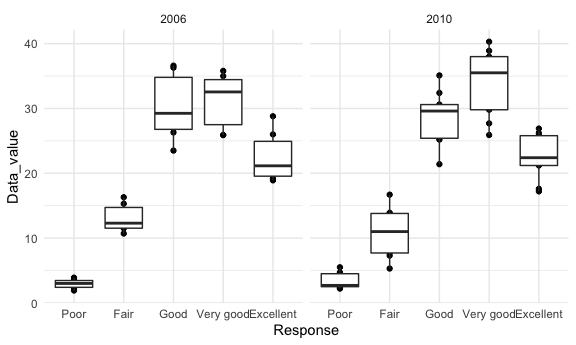
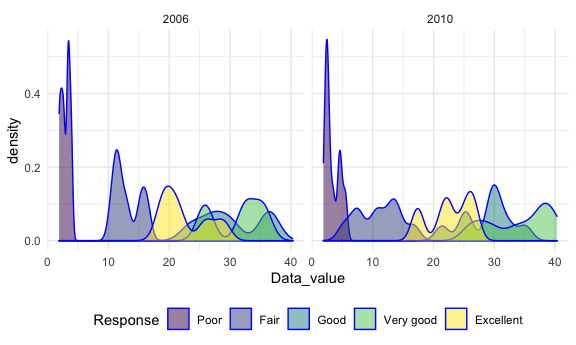
change some plot and comment

diff --git a/p8105_hw3_zh2494.md b/p8105_hw3_zh2494.md
@@ -112,11 +112,22 @@ colnames(instacart)
     ## [10] "days_since_prior_order" "product_name"           "aisle_id"              
     ## [13] "department_id"          "aisle"                  "department"
 
-``` r
-## giving illstrative examples of observations. 
-```
+Description: the dataset include 15 variables and 1,384,617
+observations. the variable are showing below order\_id: order identifier
+product\_id: product identifier add\_to\_cart\_order: order in which
+each product was added to cart reordered: 1 if this prodcut has been
+ordered by this user in the past, 0 otherwise user\_id: customer
+identifier eval\_set: which evaluation set this order belongs in (Note
+that the data for use in this class is exclusively from the “train”
+eval\_set) order\_number: the order sequence number for this user
+(1=first, n=nth) order\_dow: the day of the week on which the order was
+placed order\_hour\_of\_day: the hour of the day on which the order was
+placed days\_since\_prior\_order: days since the last order, capped at
+30, NA if order\_number=1 product\_name: name of the product aisle\_id:
+aisle identifier department\_id: department identifier aisle: the name
+of the aisle department: the name of the department
 
-##### How many aisles are there, and which aisles are the most items ordered from?
+##### 1,How many aisles are there, and which aisles are the most items ordered from?
 
 ``` r
 instacart %>%
@@ -168,18 +179,25 @@ instacart %>%
     aisle = fct_reorder(aisle,n)
   ) %>%  
   ggplot(aes(y = n, x = aisle)) +
-  geom_point() +
+  geom_bar(aes(fill = aisle), stat = "identity") +
   labs(
     title = "aisles with more than 10000 items ordered",
     x = "the number of items",
     y = "the name of the aisle"
   ) +
-  theme(axis.text.x = element_text(angle = 90, vjust = 0.5, hjust = 1))
+  scale_x_discrete(labels = NULL)
 ```
 
 <img src="p8105_hw3_zh2494_files/figure-gfm/unnamed-chunk-5-1.png" width="90%" />
 
-##### Make a table showing the three most popular items in each of the aisles “baking ingredients”, “dog food care”, and “packaged vegetables fruits”. Include the number of times each item is ordered in your table.
+``` r
+  #theme(axis.text.x = element_text(angle = 90, vjust = 0.5, hjust = 1))
+```
+
+*comment : The bar diagram above showed the number of items ordered in
+aisles, which had more than 10000 items ordered.*
+
+##### 3.Make a table showing the three most popular items in each of the aisles “baking ingredients”, “dog food care”, and “packaged vegetables fruits”. Include the number of times each item is ordered in your table.
 
 ``` r
 instacart %>% 
@@ -204,7 +222,7 @@ instacart %>%
 | packaged vegetables fruits | Organic Raspberries                           | 5546 |    2 |
 | packaged vegetables fruits | Organic Blueberries                           | 4966 |    3 |
 
-*comment:the baking ingredients need the most light brown sugar. Dog
+*comment : the baking ingredients need the most light brown sugar. Dog
 food care need Snack Sticks Chicken & Rice Recipe Dog Treats and
 packaged vegetables fruits need the most Organic Baby Spinach.*
 
@@ -219,19 +237,20 @@ instacart %>%
   pivot_wider(
     names_from = order_dow,
     values_from = mean_hour
-  )
+  ) %>% 
+  knitr::kable()
 ```
 
     ## `summarise()` has grouped output by 'product_name'. You can override using the `.groups` argument.
 
-    ## # A tibble: 2 × 8
-    ## # Groups:   product_name [2]
-    ##   product_name     Sunday Monday Tuesday Wednesday Thurday Friday Saturday
-    ##   <chr>             <dbl>  <dbl>   <dbl>     <dbl>   <dbl>  <dbl>    <dbl>
-    ## 1 Coffee Ice Cream   13.8   14.3    15.4      15.3    15.2   12.3     13.8
-    ## 2 Pink Lady Apples   13.4   11.4    11.7      14.2    11.6   12.8     11.9
+| product\_name    |   Sunday |   Monday |  Tuesday | Wednesday |  Thurday |   Friday | Saturday |
+|:-----------------|---------:|---------:|---------:|----------:|---------:|---------:|---------:|
+| Coffee Ice Cream | 13.77419 | 14.31579 | 15.38095 |  15.31818 | 15.21739 | 12.26316 | 13.83333 |
+| Pink Lady Apples | 13.44118 | 11.36000 | 11.70213 |  14.25000 | 11.55172 | 12.78431 | 11.93750 |
 
 # Problem 2
+
+Load the dataset
 
 ``` r
 data("brfss_smart2010")
@@ -245,7 +264,28 @@ Brfss =
   mutate(
     Response = forcats::fct_relevel(Response,c("Poor","Fair","Good","Very good","Excellent")),
     Response = as.factor(Response))
+Brfss
 ```
+
+    ## # A tibble: 10,625 × 23
+    ##     Year Locationabbr Locationdesc  Class  Topic  Question  Response Sample_Size
+    ##    <int> <chr>        <chr>         <chr>  <chr>  <chr>     <fct>          <int>
+    ##  1  2010 AL           AL - Jeffers… Healt… Overa… How is y… Excelle…          94
+    ##  2  2010 AL           AL - Jeffers… Healt… Overa… How is y… Very go…         148
+    ##  3  2010 AL           AL - Jeffers… Healt… Overa… How is y… Good             208
+    ##  4  2010 AL           AL - Jeffers… Healt… Overa… How is y… Fair             107
+    ##  5  2010 AL           AL - Jeffers… Healt… Overa… How is y… Poor              45
+    ##  6  2010 AL           AL - Mobile … Healt… Overa… How is y… Excelle…          91
+    ##  7  2010 AL           AL - Mobile … Healt… Overa… How is y… Very go…         177
+    ##  8  2010 AL           AL - Mobile … Healt… Overa… How is y… Good             224
+    ##  9  2010 AL           AL - Mobile … Healt… Overa… How is y… Fair             120
+    ## 10  2010 AL           AL - Mobile … Healt… Overa… How is y… Poor              66
+    ## # … with 10,615 more rows, and 15 more variables: Data_value <dbl>,
+    ## #   Confidence_limit_Low <dbl>, Confidence_limit_High <dbl>,
+    ## #   Display_order <int>, Data_value_unit <chr>, Data_value_type <chr>,
+    ## #   Data_Value_Footnote_Symbol <chr>, Data_Value_Footnote <chr>,
+    ## #   DataSource <chr>, ClassId <chr>, TopicId <chr>, LocationID <chr>,
+    ## #   QuestionID <chr>, RESPID <chr>, GeoLocation <chr>
 
 ##### In 2002, which states were observed at 7 or more locations? What about in 2010?
 
@@ -264,8 +304,6 @@ location_2002 =
     ## `summarise()` has grouped output by 'Locationabbr'. You can override using the `.groups` argument.
 
 ``` r
-view(location_2002)
-
 location_2010 =
   Brfss %>% 
   filter(Year == 2010) %>% 
@@ -280,15 +318,49 @@ location_2010 =
     ## `summarise()` has grouped output by 'Locationabbr'. You can override using the `.groups` argument.
 
 ``` r
-view(location_2010)
+location_2010
 ```
+
+    ## # A tibble: 14 × 2
+    ## # Groups:   Locationabbr [14]
+    ##    Locationabbr     n
+    ##    <chr>        <int>
+    ##  1 CA              12
+    ##  2 CO               7
+    ##  3 FL              41
+    ##  4 MA               9
+    ##  5 MD              12
+    ##  6 NC              12
+    ##  7 NE              10
+    ##  8 NJ              19
+    ##  9 NY               9
+    ## 10 OH               8
+    ## 11 PA               7
+    ## 12 SC               7
+    ## 13 TX              16
+    ## 14 WA              10
+
+``` r
+location_2002
+```
+
+    ## # A tibble: 6 × 2
+    ## # Groups:   Locationabbr [6]
+    ##   Locationabbr     n
+    ##   <chr>        <int>
+    ## 1 CT               7
+    ## 2 FL               7
+    ## 3 MA               8
+    ## 4 NC               7
+    ## 5 NJ               8
+    ## 6 PA              10
 
 *comment: the states that were observed at 7 or more locations areCT,
 FL, MA, NC, NJ, PA in 2002, the states that were observed at 7 or more
 locations areCA, CO, FL, MA, MD, NC, NE, NJ, NY, OH, PA, SC, TX, WA in
 2010*
 
-##### Construct a dataset that is limited to Excellent responses, and contains, year, state, and a variable that averages the data\_value across locations within a state. Make a “spaghetti” plot of this average value over time within a state (that is, make a plot showing a line for each state across years – the geom\_line geometry and group aesthetic will help).
+##### 3. Construct a dataset that is limited to Excellent responses, and contains, year, state, and a variable that averages the data\_value across locations within a state. Make a “spaghetti” plot of this average value over time within a state (that is, make a plot showing a line for each state across years – the geom\_line geometry and group aesthetic will help).
 
 ``` r
 Brfss %>%
@@ -307,25 +379,23 @@ Brfss %>%
 
 <img src="p8105_hw3_zh2494_files/figure-gfm/unnamed-chunk-11-1.png" width="90%" />
 
-**comment: **
-
-##### Make a two-panel plot showing, for the years 2006, and 2010, distribution of data\_value for responses (“Poor” to “Excellent”) among locations in NY State.
+##### 4. Make a two-panel plot showing, for the years 2006, and 2010, distribution of data\_value for responses (“Poor” to “Excellent”) among locations in NY State.
 
 ``` r
 two_panel_plot = 
   Brfss %>% 
   filter(Year %in% c(2006,2010),
          Locationabbr == "NY")
-ggplot(two_panel_plot, aes(y = Data_value, x = Response)) + geom_point() + geom_boxplot() + facet_grid(. ~ Year)
+ggplot(two_panel_plot, aes(x = Data_value, fill = Response)) +
+  geom_density(alpha = .5, adjust = .5, color = "blue") +
+  facet_grid(. ~ Year)
 ```
 
 <img src="p8105_hw3_zh2494_files/figure-gfm/unnamed-chunk-12-1.png" width="90%" />
 
-**comment: **
-
 # Problem 3
 
-##### Load, tidy, and otherwise wrangle the data. Your final dataset should include all originally observed variables and values; have useful variable names; include a weekday vs weekend variable; and encode data with reasonable variable classes. Describe the resulting dataset (e.g. what variables exist, how many observations, etc).
+##### 1. Load, tidy, and otherwise wrangle the data. Your final dataset should include all originally observed variables and values; have useful variable names; include a weekday vs weekend variable; and encode data with reasonable variable classes. Describe the resulting dataset (e.g. what variables exist, how many observations, etc).
 
 ``` r
 accel = 
@@ -351,10 +421,27 @@ accel =
     ## ℹ Specify the column types or set `show_col_types = FALSE` to quiet this message.
 
 ``` r
-view(accel)
+head(accel)
 ```
 
-##### Traditional analyses of accelerometer data focus on the total activity over the day. Using your tidied dataset, aggregate accross minutes to create a total activity variable for each day, and create a table showing these totals. Are any trends apparent?
+    ## # A tibble: 6 × 1,444
+    ##    week day_id day      weekdays activity.1 activity.2 activity.3 activity.4
+    ##   <dbl>  <dbl> <chr>    <chr>         <dbl>      <dbl>      <dbl>      <dbl>
+    ## 1     1      1 Friday   weekday        88.4       82.2       64.4       70.0
+    ## 2     1      2 Monday   weekday         1          1          1          1  
+    ## 3     1      3 Saturday weekend         1          1          1          1  
+    ## 4     1      4 Sunday   weekend         1          1          1          1  
+    ## 5     1      5 Thursday weekday        47.4       48.8       46.9       35.8
+    ## 6     1      6 Tuesday  weekday        64.8       59.5       73.7       45.7
+    ## # … with 1,436 more variables: activity.5 <dbl>, activity.6 <dbl>,
+    ## #   activity.7 <dbl>, activity.8 <dbl>, activity.9 <dbl>, activity.10 <dbl>,
+    ## #   activity.11 <dbl>, activity.12 <dbl>, activity.13 <dbl>, activity.14 <dbl>,
+    ## #   activity.15 <dbl>, activity.16 <dbl>, activity.17 <dbl>, activity.18 <dbl>,
+    ## #   activity.19 <dbl>, activity.20 <dbl>, activity.21 <dbl>, activity.22 <dbl>,
+    ## #   activity.23 <dbl>, activity.24 <dbl>, activity.25 <dbl>, activity.26 <dbl>,
+    ## #   activity.27 <dbl>, activity.28 <dbl>, activity.29 <dbl>, …
+
+##### 2. Traditional analyses of accelerometer data focus on the total activity over the day. Using your tidied dataset, aggregate accross minutes to create a total activity variable for each day, and create a table showing these totals. Are any trends apparent?
 
 ``` r
 accel %>% 
@@ -364,50 +451,79 @@ accel %>%
     names_prefix = "activity.",
     values_to = "activity"
   ) %>%
-  group_by(day_id) %>%
+  group_by(day_id, weekdays) %>%
   summarize(everyday_total = sum(activity)) %>%
   knitr::kable()
 ```
 
-| day\_id | everyday\_total |
-|--------:|----------------:|
-|       1 |       480542.62 |
-|       2 |        78828.07 |
-|       3 |       376254.00 |
-|       4 |       631105.00 |
-|       5 |       355923.64 |
-|       6 |       307094.24 |
-|       7 |       340115.01 |
-|       8 |       568839.00 |
-|       9 |       295431.00 |
-|      10 |       607175.00 |
-|      11 |       422018.00 |
-|      12 |       474048.00 |
-|      13 |       423245.00 |
-|      14 |       440962.00 |
-|      15 |       467420.00 |
-|      16 |       685910.00 |
-|      17 |       382928.00 |
-|      18 |       467052.00 |
-|      19 |       371230.00 |
-|      20 |       381507.00 |
-|      21 |       468869.00 |
-|      22 |       154049.00 |
-|      23 |       409450.00 |
-|      24 |         1440.00 |
-|      25 |       260617.00 |
-|      26 |       340291.00 |
-|      27 |       319568.00 |
-|      28 |       434460.00 |
-|      29 |       620860.00 |
-|      30 |       389080.00 |
-|      31 |         1440.00 |
-|      32 |       138421.00 |
-|      33 |       549658.00 |
-|      34 |       367824.00 |
-|      35 |       445366.00 |
+    ## `summarise()` has grouped output by 'day_id'. You can override using the `.groups` argument.
 
-##### Accelerometer data allows the inspection activity over the course of the day. Make a single-panel plot that shows the 24-hour activity time courses for each day and use color to indicate day of the week. Describe in words any patterns or conclusions you can make based on this graph.
+| day\_id | weekdays | everyday\_total |
+|--------:|:---------|----------------:|
+|       1 | weekday  |       480542.62 |
+|       2 | weekday  |        78828.07 |
+|       3 | weekend  |       376254.00 |
+|       4 | weekend  |       631105.00 |
+|       5 | weekday  |       355923.64 |
+|       6 | weekday  |       307094.24 |
+|       7 | weekday  |       340115.01 |
+|       8 | weekday  |       568839.00 |
+|       9 | weekday  |       295431.00 |
+|      10 | weekend  |       607175.00 |
+|      11 | weekend  |       422018.00 |
+|      12 | weekday  |       474048.00 |
+|      13 | weekday  |       423245.00 |
+|      14 | weekday  |       440962.00 |
+|      15 | weekday  |       467420.00 |
+|      16 | weekday  |       685910.00 |
+|      17 | weekend  |       382928.00 |
+|      18 | weekend  |       467052.00 |
+|      19 | weekday  |       371230.00 |
+|      20 | weekday  |       381507.00 |
+|      21 | weekday  |       468869.00 |
+|      22 | weekday  |       154049.00 |
+|      23 | weekday  |       409450.00 |
+|      24 | weekend  |         1440.00 |
+|      25 | weekend  |       260617.00 |
+|      26 | weekday  |       340291.00 |
+|      27 | weekday  |       319568.00 |
+|      28 | weekday  |       434460.00 |
+|      29 | weekday  |       620860.00 |
+|      30 | weekday  |       389080.00 |
+|      31 | weekend  |         1440.00 |
+|      32 | weekend  |       138421.00 |
+|      33 | weekday  |       549658.00 |
+|      34 | weekday  |       367824.00 |
+|      35 | weekday  |       445366.00 |
+
+``` r
+# to get the trends from the dataset
+
+accel %>% 
+  pivot_longer(
+    activity.1:activity.1440,
+    names_to = "time",
+    names_prefix = "activity.",
+    values_to = "activity"
+  ) %>%
+  group_by(day_id, weekdays) %>%
+  summarize(everyday_total = sum(activity)) %>%
+  ggplot(aes(x = day_id, y = everyday_total, group = weekdays)) +
+  geom_point() +
+  geom_line(aes(color = weekdays)) +
+  labs(title = "plot for total activity counts in a week", 
+       x = "day",
+       y = "total count")
+```
+
+    ## `summarise()` has grouped output by 'day_id'. You can override using the `.groups` argument.
+
+<img src="p8105_hw3_zh2494_files/figure-gfm/unnamed-chunk-15-1.png" width="90%" />
+
+*comment : Trends: The total activity counts in every weekend tended to
+decrease when time went by.*
+
+##### 3. Accelerometer data allows the inspection activity over the course of the day. Make a single-panel plot that shows the 24-hour activity time courses for each day and use color to indicate day of the week. Describe in words any patterns or conclusions you can make based on this graph.
 
 ``` r
 accel %>% 
@@ -417,11 +533,16 @@ accel %>%
     names_prefix = "activity.",
     values_to = "activity"
   ) %>%
-  mutate(time = as.numeric(time)) %>% 
-  ggplot(aes(x = time, y = activity)) + geom_point(aes(color = day, alpha = .1)) +
+  mutate(time = as.numeric(time)/60) %>%
+  ggplot(aes(x = time, y = activity)) + geom_line(aes(color = day, alpha = .5)) +
   scale_x_continuous(
-    breaks = c(seq(from = 0, to = 1440, by = 120)),
-    labels = c((seq(from = 0, to = 1440, by = 120))))
+    breaks = c(0, 4, 8, 12, 16, 20, 24),
+    labels = c("0", "4", "8", "12", "16", "20", "24"))
 ```
 
-<img src="p8105_hw3_zh2494_files/figure-gfm/unnamed-chunk-15-1.png" width="90%" />
+<img src="p8105_hw3_zh2494_files/figure-gfm/unnamed-chunk-16-1.png" width="90%" />
+
+*Conclusion: the plot above showed that this man tended to have more
+activity counts around 12:00PM, between 8:00PM and 10:00PM in a day.
+Activity counts were in low status in the evening between 12:00AM and
+4:00AM in a day, with a possible reason that he might be sleeping.*
